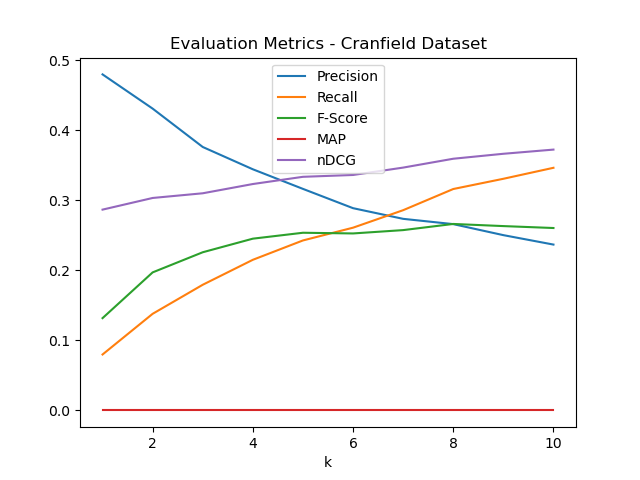
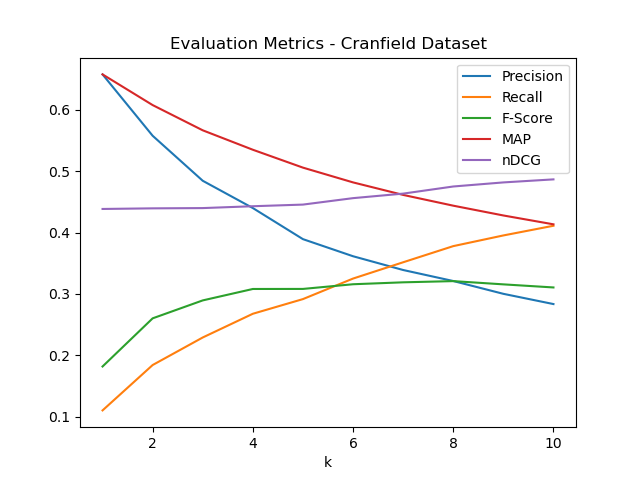
More changes

diff --git a/Asgn2/informationRetrieval.py b/Asgn2/informationRetrieval.py
@@ -28,11 +28,24 @@ class InformationRetrieval():
 		"""
 
 		tot = 0
+
+		moda = 0
+		for t in a.keys():
+			moda += a[t]**2
+		moda = moda ** 0.5
+
+		modb = 0
+		for t in b.keys():
+			modb += b[t]**2
+		modb = modb ** 0.5
+		
 		for t in a.keys():
 			if t in b:
 				tot += a[t]*b[t]
-		
-		return tot
+		if moda != 0 and modb != 0:
+			return tot/(moda*modb)
+		else:
+			return 0
 
 	def buildIndex(self, tokenizedDocs, docIDs):
 		"""
@@ -65,7 +78,7 @@ class InformationRetrieval():
 			tfs[id] = {}
 			index[id] = {}
 			sents = tds[i]
-			tokens = []
+			tokens = [] # [doc1, doc2] = [[sent1, sent2], [sent1, sent2]] = [[[token1, token2], [token1,token2]], [[token1, token2], [token1,token2]]]
 			for sent in sents:
 				tokens += sent
 			
@@ -89,7 +102,7 @@ class InformationRetrieval():
 		
 		# Compute idf from df
 		for t in dfs:
-			idfs[t] = np.log(N/(1+dfs[t]))	# add 1 in denom to prevent div by 0
+			idfs[t] = np.log10(N/(dfs[t]))	# add 1 in denom to prevent div by 0 (smoothing) #TODO check
 		
 		# Multiply tf and idf
 		for id in tfs.keys():
@@ -123,10 +136,10 @@ class InformationRetrieval():
 		q_ti = {}
 		q_tfs = {}
 		Q = len(queries)
+		print("Query count:", Q)
 		ranks = [None for _ in range(Q)]
 
-		for i in range(Q):
-			id = i
+		for id in range(Q):
 			q = queries[id]
 			q_ti[id] = {}
 			q_tfs[id] = {}
@@ -134,21 +147,25 @@ class InformationRetrieval():
 			for sent in q:
 				tokens += sent
 			
-			uniqueTokens = set()
-			
 			# Compute tf
 			for t in tokens:
 				if t in q_tfs[id]:
 					q_tfs[id][t] += 1
 				else:
 					q_tfs[id][t] = 1
-
-			# Compute tf-idf of queries
-			for t in q_tfs[id].keys():
-				if t in self.idfs:	
+			
+			for t in self.idfs:
+				if t in q_tfs[id]:
 					q_ti[id][t] = q_tfs[id][t] * self.idfs[t]
 				else:
-					q_ti[id][t] = 0		# if term is absent from documents, give it 0 weight in retrieval
+					pass
+			# Compute tf-idf of queries
+			# for t in q_tfs[id].keys():
+			# 	if t in self.idfs:	
+			# 		q_ti[id][t] = q_tfs[id][t] * self.idfs[t]
+			# 	else:
+			# 		pass
+			# 		# q_ti[id][t] = 0		# if term is absent from documents, give it 0 weight in retrieval
 		
 		# Find docID ranking for each query
 			vq = q_ti[id]

diff --git a/Asgn2/evaluation.py b/Asgn2/evaluation.py
@@ -206,7 +206,7 @@ class Evaluation():
 		precision = self.queryPrecision(query_doc_IDs_ordered, query_id, true_doc_IDs, k)
 		recall = self.queryRecall(query_doc_IDs_ordered, query_id, true_doc_IDs, k)
 
-		if precision == 0.0 and recall == 0.0:	# when both zero, set fscore 0. Derived from limit of fscore as p,r -> 0
+		if precision == 0.0 or recall == 0.0:	# when any zero, set fscore 0. Derived from limit of fscore as p,r -> 0
 			fscore = 0
 		else:
 			fscore = (2*precision*recall)/(precision+recall)
@@ -426,7 +426,7 @@ class Evaluation():
 			true_doc_IDs = []
 			for d in q_rels:
 				if int(d["query_num"]) ==  query_id:
-					true_doc_IDs.append(d["id"])
+					true_doc_IDs.append(int(d["id"]))
 			meanAveragePrecision += self.queryAveragePrecision(document_order, query_id, true_doc_IDs, k)
 
 		meanAveragePrecision /=  len(query_ids)
